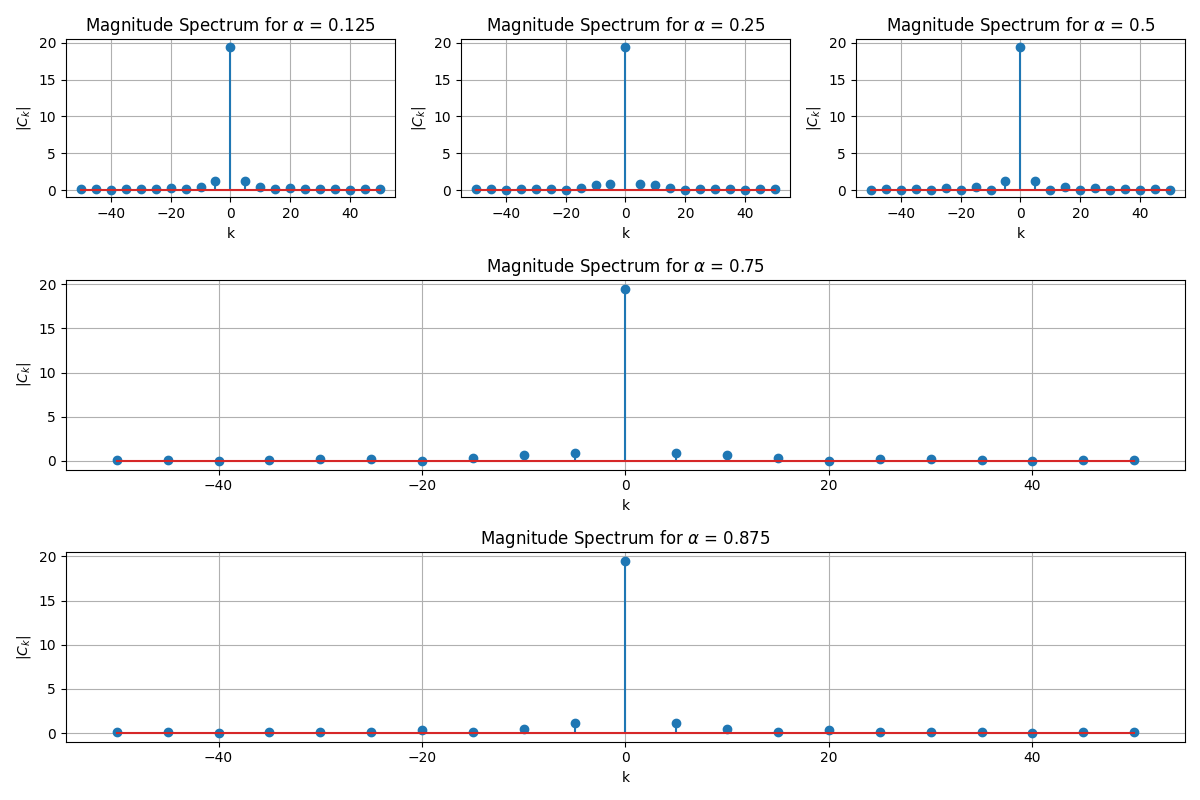
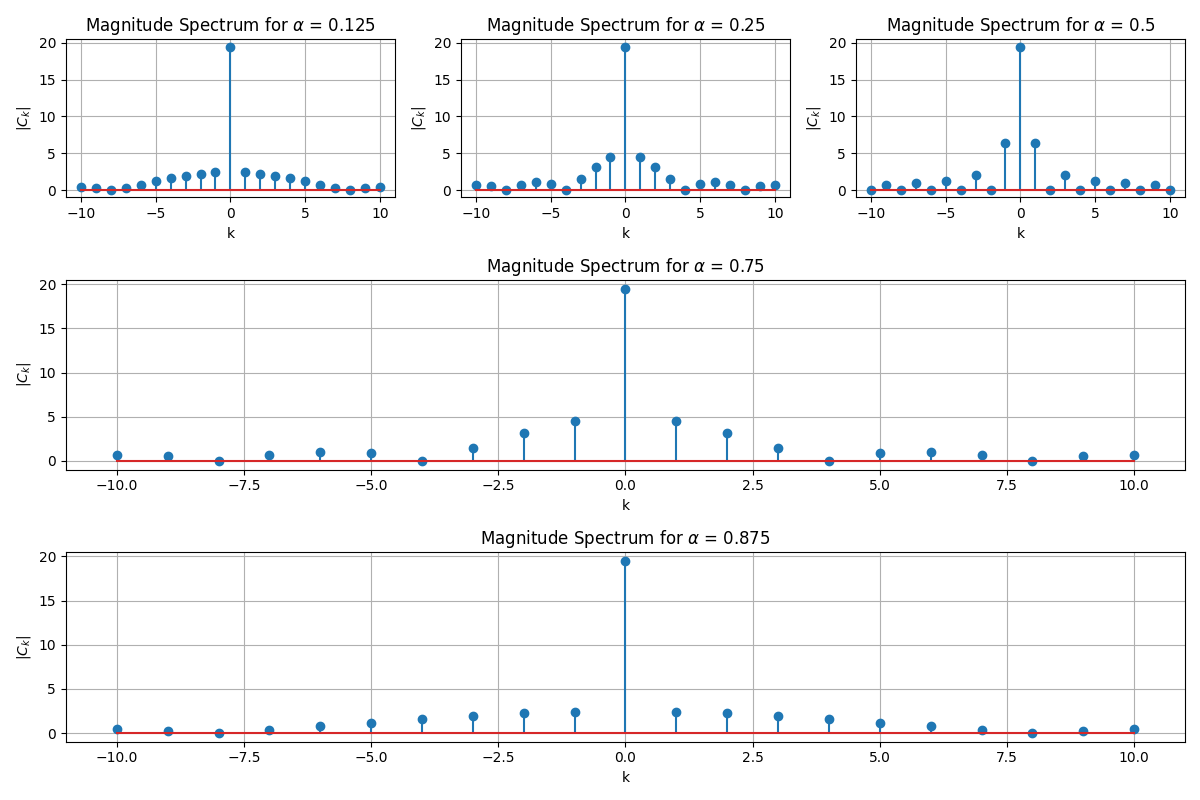
changes

diff --git a/spectrum.py b/spectrum.py
@@ -7,7 +7,7 @@ import os
 os.makedirs('figs', exist_ok=True)
 
 alpha_vals = [0.125, 0.25, 0.5, 0.75, 0.875]
-k = np.arange(-50, 51, 5)
+k = np.arange(-10, 11, 1)
 
 fig = plt.figure(figsize=(12, 8))
 gs = gridspec.GridSpec(3, 3, height_ratios=[1, 1.2, 1.2])  # 3 rows, 3 columns
@@ -43,8 +43,8 @@ plt.show()
 
 
 # 3D plot of the magnitude spectrum
-alpha_vals = np.linspace(0, 1, 20)
-k_vals = np.arange(-50, 51, 5)
+alpha_vals = np.linspace(0, 1, 15)
+k_vals = np.arange(-10, 11, 1)
 
 fig = plt.figure(figsize=(10, 7))
 ax1 = fig.add_subplot(111, projection='3d')
@@ -57,7 +57,7 @@ for alpha in alpha_vals:
         else:
             Ck[i] = 10 * alpha
     for i in range(len(k_vals)):
-        ax1.plot([alpha, alpha], [k_vals[i], k_vals[i]], [0, Ck[i]], 'k-', linewidth=0.5)  # Stem line
+        ax1.plot([alpha, alpha], [k_vals[i], k_vals[i]], [0, Ck[i]], color = 'gray', linewidth = '1')  # Stem line
         ax1.scatter(alpha, k_vals[i], Ck[i], color='b', s=10)  # Marker at the top
 
 ax1.set_xlabel(r"$\alpha$")
@@ -66,4 +66,36 @@ ax1.set_zlabel(r"$|C_k|$")
 ax1.view_init(elev = 19, azim = 165)
 ax1.set_title("3D plot of Magnitude Spectrum")
 plt.savefig("figs/3d_magnitude_spectrum.png")
+plt.show()
+
+
+# Phase spectrum
+alpha_vals = [0.125, 0.25, 0.5, 0.75, 0.875]  # Different alpha values
+n = np.arange(-50, 51, 1)  # Range for n
+
+fig = plt.figure(figsize=(12, 8))
+gs = gridspec.GridSpec(3, 3, height_ratios=[1, 1.2, 1.2])  # 3 rows, 3 columns
+
+axes = []  # List to store subplot axes
+
+for idx, alpha in enumerate(alpha_vals):
+    phase_spectrum = np.arctan2(1 - np.cos(2 * np.pi * n * alpha), -np.sin(2 * np.pi * n * alpha))
+
+    if idx < 3:  # First 3 plots in the first row
+        ax = fig.add_subplot(gs[0, idx])
+    elif idx == 3:  # Next two plots span the entire second row
+        ax = fig.add_subplot(gs[1, :])
+    elif idx == 4:  # Final plot spans the entire third row
+        ax = fig.add_subplot(gs[2, :])
+
+    ax.stem(n, np.unwrap(phase_spectrum), basefmt=" ", linefmt='b-', markerfmt='bo')
+    ax.axhline(0, color='red', linewidth=0.8)  # Reference line at zero
+    ax.set_xlabel("n")
+    ax.set_ylabel("Phase (radians)")
+    ax.set_title(r"Phase Spectrum for $\alpha$ = " + str(alpha))
+    ax.grid(True)
+    axes.append(ax)
+
+plt.tight_layout()
+plt.savefig("figs/phase_spectrum.png")
 plt.show()
